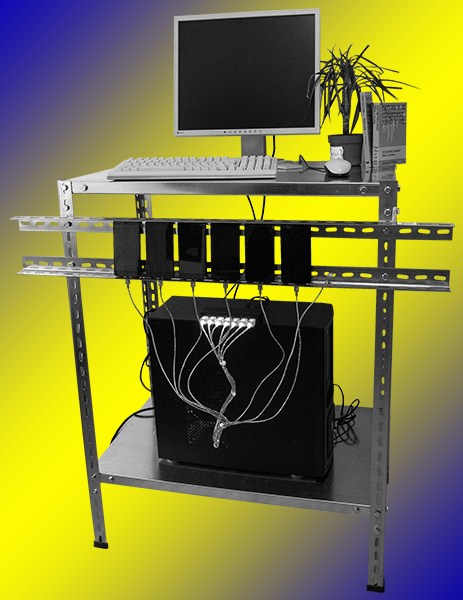
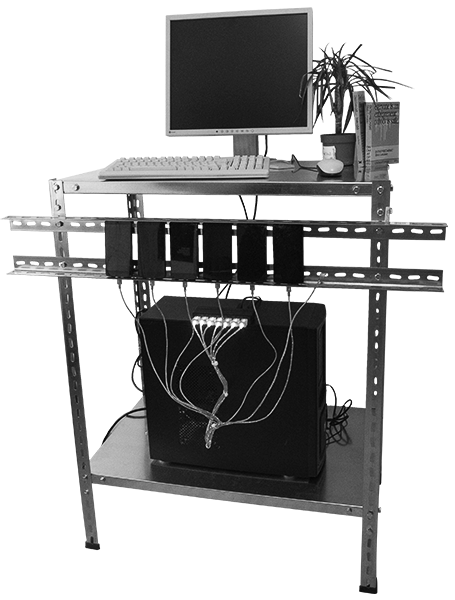
back to black

diff --git a/public/index.html b/public/index.html
@@ -17,7 +17,7 @@
   <div id="conrad">
     <img src="assets/conrad.png" alt="Conrad Weise">
     <div class="description">
-      <small>Currently studying Integrated Design at Köln International School of Design. In my work I look at socio-political settings where I locate computational systems and their implications.</small>
+      Currently studying Integrated Design at Köln International School of Design. In my work I look at socio-political settings where I locate computational systems and their implications.
     </div>
   </div>
   <p><span id="name">Conrad Weise</span> <br> designer of computer equipment</p>
@@ -26,7 +26,7 @@
     2020
     <li class="proj">
       <h2>Group control system — the entreprecariat object</h2>
-      <img src="assets/group-control-system.png" alt="group-control-system" class="rounded">
+      <img src="assets/group-control-system.png" alt="group-control-system">
       <p>Looks at the concept of work and employment in the age of the internet with focusing on the growing entanglement of entrepreneurialism and new shapes of the precariat. Through analyzing the phenomenon of group control systems within the discourse of interface cultures a specific type of engagement towards work becomes visible.
         ↬ <a href="https://github.com/cccccccccccccccccnrd/entreprecariat-object">entreprecariat-object.git</a></p>
     </li>
@@ -66,7 +66,7 @@
     2018
     <li class="proj">
       <h2>self</h2>
-      <img src="assets/self.gif">
+      <img src="assets/self.gif" style="filter: invert(100);">
       <p>Synchronizes different camera inputs based on human pose estimation w/ @tensorflow ↬ <a href="https://github.com/cccccccccccccccccnrd/self">self.git</a></p>
       <small>Exhibited at: <br>— <a href="https://gfmedienwissenschaft.de/jahrestagung-2019-medien-materialitaeten">Medien-Materialitäten</a>, 2019<br>— European Cultural Centre, Biennale 2018<br>— KISDparcours, 2018</small>
     </li>

diff --git a/public/style.css b/public/style.css
@@ -2,11 +2,11 @@ body {
   max-width: 600px;
   margin: 1em;
   font-family: -apple-system, BlinkMacSystemFont, "Segoe UI", "Roboto", "Oxygen", "Ubuntu", "Cantarell", "Fira Sans", "Droid Sans", "Helvetica Neue", sans-serif;
-  font-size: 25px;
+  font-size: 15px;
   -webkit-font-smoothing: antialiased;
   -moz-osx-font-smoothing: grayscale;
-  color: black;
-  background: white;
+  color: white;
+  background: black;
 }
 
 p {
@@ -42,16 +42,17 @@ img, video {
 .proj {
   margin: 0.5em 0em;
   padding: 1em;
-  border: 1px solid black;
+  border-radius: 5px;
   cursor: pointer;
 }
 
 .proj.show {
-  box-shadow: 1em 1em 1em rgba(0, 0, 255, 1);
+  box-shadow: 0 0 10em rgba(0, 0, 255, 1);
 }
 
 .proj h2 {
   display: block;
+  margin: 0;
   font-size: 2em;
   font-weight: 400;
 }
@@ -79,9 +80,9 @@ img, video {
 
 #conrad .description {
   padding: 1em;
-  background: white;
-  border: 1px solid black;
-  box-shadow: 1em 1em 1em rgba(0, 0, 255, 1);
+  background: black;
+  border-radius: 5px;
+  box-shadow: 0 0 10em rgba(0, 0, 255, 1);
 }
 
 @media screen and (max-width: 450px) {
